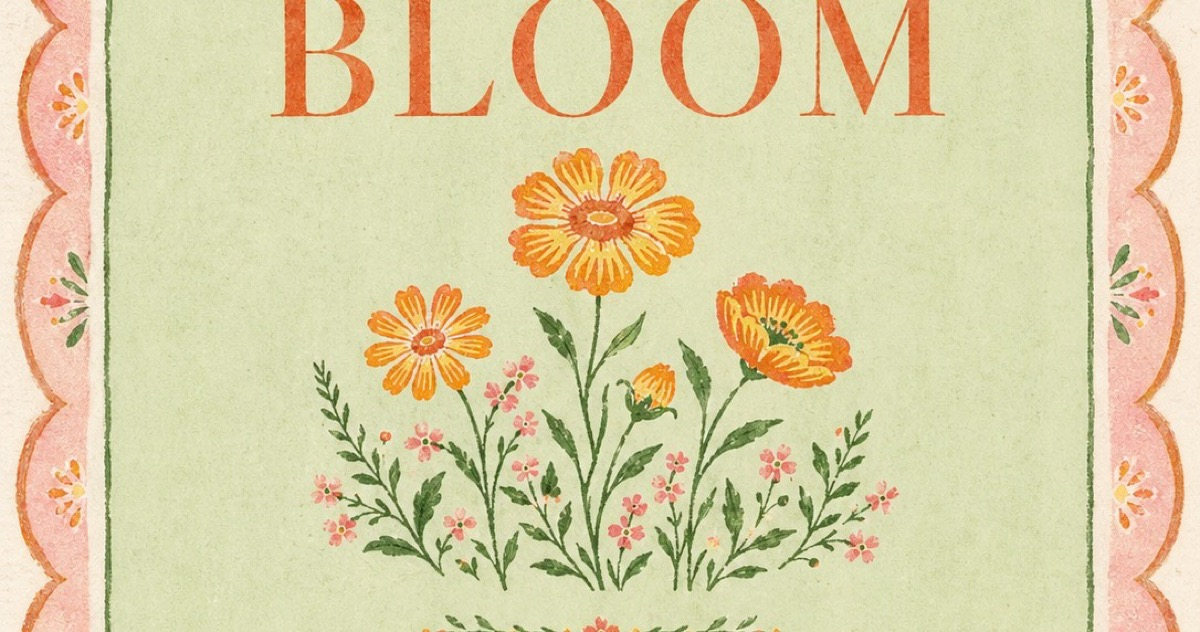
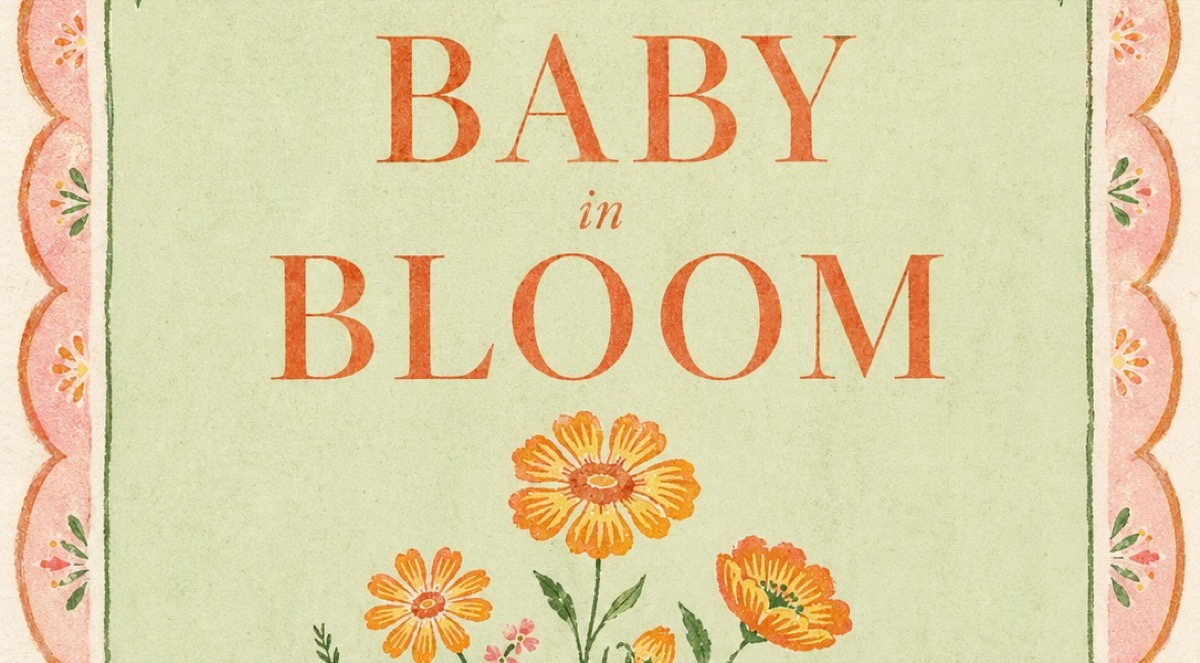
Re-crop OG image so full BABY in BLOOM title is visible in iMessage previews

diff --git a/app/layout.tsx b/app/layout.tsx
@@ -19,7 +19,7 @@ export const metadata: Metadata = {
       {
         url: "/opengraph-image.png",
         width: 1200,
-        height: 632,
+        height: 663,
         alt: "Baby in Bloom — Brandon & Shenika's Baby Shower"
       }
     ]
